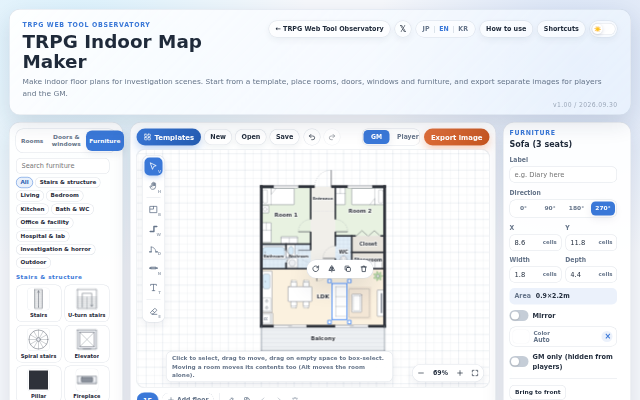
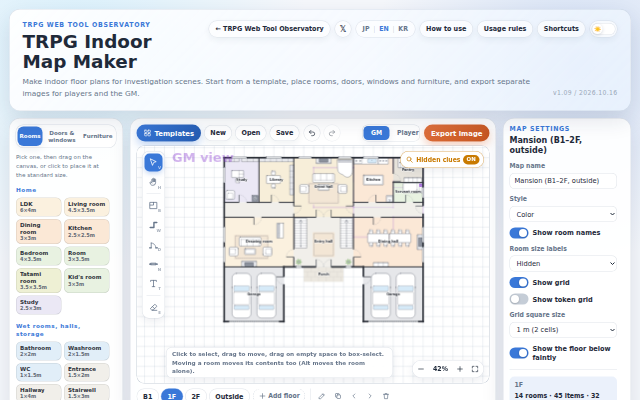
TRPG室内図メーカー v1.09: public release on the portal (#95)
* TRPG室内図メーカー v1.09: public release on the portal

- Portal: listed as 使用可能 and shown first, before 文字画像APNGメーカー, with a shorter card text and a fresh preview image
- Changelog: release entry (2026/10/16, v1.09 公開)
- Sitemap: tool URL added
- Tool page: closed-test noindex removed
- Castle: the SE tower spiral stair is labelled 塔の上へ (it has no upper floor)

Claude-Session: https://claude.ai/code/session_01F5ZA7FVDrDCyjQPMw5qjd1

* Update changelog fallback tool counts to 13/3/9

Claude-Session: https://claude.ai/code/session_01F5ZA7FVDrDCyjQPMw5qjd1

---------

diff --git a/changelog.html b/changelog.html
@@ -73,7 +73,7 @@
       <aside class="status-summary" aria-label="Changelog summary">
         <div class="summary-grid">
           <div class="summary-item">
-            <p id="availableCount" class="summary-number">12</p>
+            <p id="availableCount" class="summary-number">13</p>
             <p class="summary-label">使用可能</p>
           </div>
 
@@ -83,7 +83,7 @@
           </div>
 
           <div class="summary-item">
-            <p id="ideaCount" class="summary-number">10</p>
+            <p id="ideaCount" class="summary-number">9</p>
             <p class="summary-label">アイデア</p>
           </div>
         </div>
@@ -91,6 +91,20 @@
     </section>
 
     <section class="portal-info-section" aria-label="Changelog">
+      <article class="portal-info-card release-item">
+        <p class="release-date">2026/10/16</p>
+        <h2>TRPG室内図メーカー v1.09 公開</h2>
+        <ul>
+          <li>探索シーンで使う室内の見取り図を、ブラウザだけで作成できる新ツールを追加しました。1マス = 0.5mのグリッドに部屋を置くと、壁が自動でつきます。</li>
+          <li>テンプレートを55種・13分類で用意しました（住宅・邸宅、宿泊・飲食、医療・研究、公共・教育、商業・業務、娯楽・イベント、交通・乗り物、産業・インフラ、軍事・保安、歴史・和風・宗教、廃墟・事件・ホラー、SF・ファンタジー・特殊、自然・野外）。名前やタグで検索でき、「家具なし（間取りだけ）」や「隠し手がかり入り」でも読み込めます。</li>
+          <li>家具・小物を約370種・17分類で用意しました。ドア・窓（施錠・隠し扉・鉄扉・防火扉・壊れたドアなど）、壁の種類（ガラス・石壁・鉄格子・崩れた壁など）、床の種類（和室・土間・洞窟・線路・甲板など）も選べます。</li>
+          <li>GM専用の部屋・家具・隠し扉はPL表示とPL用の画像には出ません。家具や文字を「隠し手がかり」にすると、GM/PL表示とは別に表示を切り替えられます。</li>
+          <li>「コマ用の方眼を表示」をオンにすると、0.5m〜3mの方眼をマップに重ねられます。書き出した画像は左上から方眼が始まるので、ココフォリアなどでマップのマス目を合わせればコマを置いて動かせます。</li>
+          <li>PNGは「この階だけ」「すべての階を並べる」「階ごとに別の画像」で書き出せ、表示スタイル（カラー・モノクロ図面・ブループリント・古びた図面・ホラー調査）も選べます。作業はブラウザに自動保存され、ファイル（.trpgmap.json）にも保存できます。画面表示は日本語・英語・韓国語に対応しています。</li>
+          <li>作成した見取り図の利用ルールを用意しました。個人利用や自作のシナリオ・ゲームには無料で使え、個人利用の範囲を超えるときはクレジットの記載をお願いしています（書き出し画面からコピーできます）。</li>
+        </ul>
+      </article>
+
       <article class="portal-info-card release-item">
         <p class="release-date">2026/10/06</p>
         <h2>文字画像APNGメーカー v1.12 マイテンプレート</h2>

diff --git a/tools/indoor-map-maker/index.html b/tools/indoor-map-maker/index.html
@@ -5,13 +5,11 @@
 
   <meta charset="utf-8" />
   <meta name="viewport" content="width=device-width, initial-scale=1" />
-  <!-- クローズドテスト中は検索エンジンに載せない（一般公開するときに外す） -->
-  <meta name="robots" content="noindex, nofollow" />
   <title>TRPG室内図メーカー｜TRPG WEBツール観測所</title>
   <meta name="description" content="TRPGの探索シーンで使う室内の見取り図を、ブラウザだけで作成できるツールです。1LDK・一戸建て・洋館・ホテル・病院・廃墟のテンプレートから始めて、部屋・ドア・窓・家具を置いてPNGで書き出せます。" />
   <link rel="icon" href="../../assets/img/kuma_icon.png?v=20260910" type="image/png" />
   <link rel="shortcut icon" href="../../assets/img/kuma_icon.png?v=20260910" type="image/png" />
-  <link rel="stylesheet" href="./css/indoor-map-maker.css?v=20261016-01" />
+  <link rel="stylesheet" href="./css/indoor-map-maker.css?v=20261016-02" />
 </head>
 <body>
   <div class="app-shell">
@@ -36,7 +34,7 @@
         <button class="ghost-button" type="button" id="shortcutBtn" aria-expanded="false" aria-controls="shortcutDrawer" data-i18n="shortcuts">ショートカット</button>
         <button class="ghost-button theme-button" type="button" id="themeBtn"><span class="theme-toggle-track" aria-hidden="true"><span class="theme-toggle-thumb">☀</span></span></button>
       </div>
-      <div class="version-engrave">v1.08 / 2026.10.16</div>
+      <div class="version-engrave">v1.09 / 2026.10.16</div>
     </header>
 
     <section class="drawer" id="helpDrawer" hidden>
@@ -169,11 +167,11 @@
     </footer>
   </div>
 
-  <script src="./js/model.js?v=20261016-01"></script>
-  <script src="./js/assets.js?v=20261016-01"></script>
-  <script src="./js/render.js?v=20261016-01"></script>
-  <script src="./js/templates.js?v=20261016-01"></script>
-  <script src="./js/i18n.js?v=20261016-01"></script>
-  <script src="./js/editor.js?v=20261016-01"></script>
+  <script src="./js/model.js?v=20261016-02"></script>
+  <script src="./js/assets.js?v=20261016-02"></script>
+  <script src="./js/render.js?v=20261016-02"></script>
+  <script src="./js/templates.js?v=20261016-02"></script>
+  <script src="./js/i18n.js?v=20261016-02"></script>
+  <script src="./js/editor.js?v=20261016-02"></script>
 </body>
 </html>

diff --git a/tools/indoor-map-maker/js/templates.js b/tools/indoor-map-maker/js/templates.js
@@ -2548,7 +2548,7 @@
       .item('weapon_rack', 47, 14.8, 90).item('weapon_rack', 47, 18.4, 90).item('armor_stand', 42.4, 20.6).item('armor_stand', 44.2, 20.6).item('crate', 38.8, 18.4)
       .item('bunk_bed', 44, 23.4, 90).item('bunk_bed', 44, 26.6, 90).item('bunk_bed', 44, 29.8, 90).item('bunk_bed', 44, 33, 90)
       .item('table', 38.8, 29.6, 90).item('stool', 41, 30.2).item('stool', 41, 31.8).item('chest', 41.6, 23.4, 90, { size: [1.6, 1] })
-      .item('spiral', 43.6, 39.6).item('crate', 37, 42.2)
+      .item('spiral', 43.6, 39.6, 0, { label: T('塔の上へ', 'Up the tower', '탑 위로') }).item('crate', 37, 42.2)
       .item('stairs_down', 1, 37.5).item('crate', 8.6, 42).item('torch', 5.6, 36.05)
       .item('table', 14, 39).item('stool', 14.6, 41).item('stool', 16, 41).item('weapon_rack', 16.6, 36.05, 0, { size: [3, 1] })
       .item('torch', 21, 36.05).item('torch', 26.2, 36.05)

diff --git a/tools/indoor-map-maker/js/editor.js b/tools/indoor-map-maker/js/editor.js
@@ -7,7 +7,7 @@
   const M = window.IMM;
   const I18N = window.IMM_I18N;
 
-  const VERSION = 'v1.08';
+  const VERSION = 'v1.09';
   const STORAGE_KEY = 'indoorMapMaker.v1';
   const PREFS_KEY = 'indoorMapMaker.prefs';
   const LANG_KEY = 'indoorMapMakerLang';
